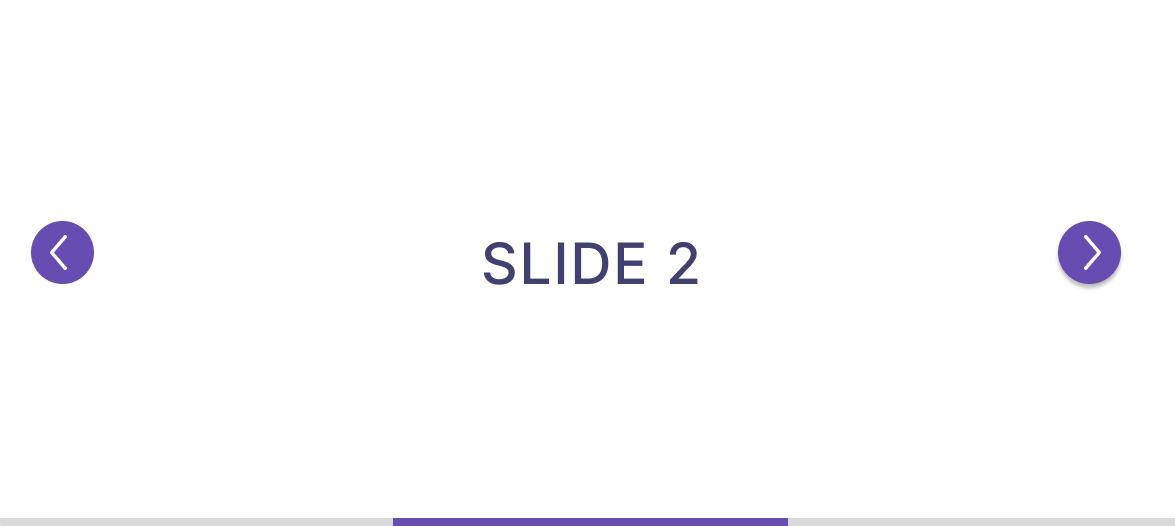
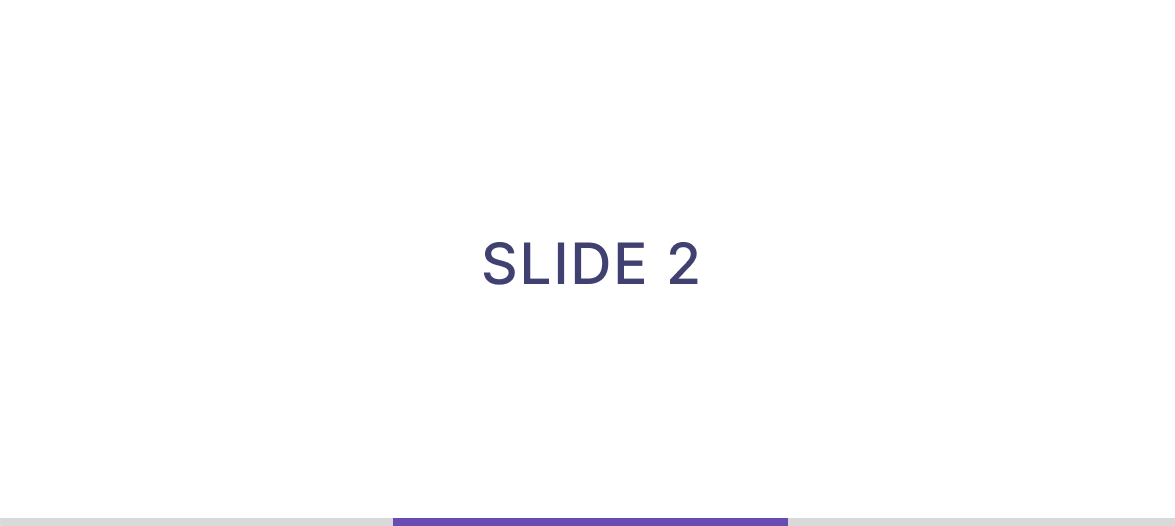
12.04.2024
almost done

Changed region(s): [[0.8885, 0.4259, 0.9804, 0.5475], [0.0, 0.3954, 0.0919, 0.5475]]

diff --git a/main.js b/main.js
@@ -37,7 +37,7 @@ class Gallary {
         ['data-btn']: 'next',
       },
     });
-    // TODO: ! навесить на кнопки события
+   
     this.items = options.gallaryItems.items.map((item) => {
       return this.createElement('img', {
         src: item,
@@ -50,8 +50,7 @@ class Gallary {
     this.gallary.appendChild(this.gallaryItems);
     this.gallaryItems.appendChild(this.wrapper);
     this.wrapper.append(...this.items);
-    this.gallary.append(this.buttonPrev, this.buttonNext);
-    // console.log(this);
+    this.gallaryItems.append(this.buttonPrev, this.buttonNext);
   }
 
   createElement(tagName, options) {
@@ -164,3 +163,124 @@ menu.addEventListener('click', function(e){
     });
   }
 });
+
+const products =[
+  {
+    name: 'https://willpower.su/image/cache/catalog/sajt08.02.2020/vitamind32000iu120caps1-1200x800.jpg', 
+    price: 2000,
+    discont: 10
+},
+{
+  name: 'https://img.herbup.ru/images/products/1/782/696623886/8.jpg', 
+  price: 2000,
+  discont: 10
+},
+{
+  name: 'https://www.fitbynet.com/wp-content/uploads/2019/06/51cY2CZlMkL._SY679_.jpg', 
+  price: 2000,
+  discont: 10
+}
+] 
+  
+const server = {
+  cards(line = 1) {
+    const finished = line >= 1
+    const next = finished ? null : line + 1
+    const cards = Array(2).fill(products)
+    return new Promise((resolve) => {
+      
+      setTimeout(() => {
+        resolve({ cards, next })
+      }, 2000)
+    })
+  },
+}
+
+ async function checkPosition() {
+  const height = document.body.offsetHeight
+  const screenHeight = window.innerHeight
+  const scrolled = window.scrollY
+  const threshold = height - screenHeight/0.9
+  const position = scrolled + screenHeight
+  if (position >= threshold) {
+    await fetchData()
+  }
+}
+
+function throttle(callee, timeout) {
+  let timer = null
+
+  return function perform(...args) {
+    if (timer) return
+
+    timer = setTimeout(() => {
+      callee(...args)
+
+      clearTimeout(timer)
+      timer = null
+    }, timeout)
+  }
+}
+
+
+;(() => {
+  window.addEventListener('scroll', throttle(checkPosition, 250))
+  window.addEventListener('resize', throttle(checkPosition, 250))
+})()
+
+let nextPage = 1;
+let isLoading = false;
+let shouldLoad = true;
+
+async function fetchData() {
+  if (isLoading || !shouldLoad) return;
+  isLoading = true;
+  const { cards, next } = await server.cards(nextPage);
+  cards.forEach(appendData);
+  nextPage = next;
+  if (!next) shouldLoad = false;
+  isLoading = false;
+
+}
+
+function appendData(loadData) {
+  if (!loadData) return
+  const main = document.querySelector('.cards')
+  const cardNode = composeData(loadData)
+  main.append(cardNode)
+}
+
+function composeData(loadData) {
+  let block;
+  let key;
+  if (!loadData) return
+  const template = document.querySelectorAll('.card__item')
+  Array.from(template).forEach((file) => {
+    file.classList.add ('active');
+    preloader.classList.add('preloader--hide')
+  })
+  
+  let list = document.querySelector('.cards');
+  console.log(loadData);
+  
+  for (key in loadData) {
+  list.innerHTML = JSON.stringify(loadData)
+        `
+          <div class="card__item">
+              <div class="card__cover">
+              <img class="card__img" src=${loadData[key].name } alt="">
+              </div>
+              <div class="card__info">
+                  <p class="card__name">${loadData[key].price}</p>
+              </div>
+              <a href="#" class="card__button">Add to cart</a>
+          </div>
+        `
+  
+  }
+  return list;
+}
+
+
+
+

diff --git a/style.css b/style.css
@@ -2,8 +2,6 @@
 
 :root {
   --width-container: 1180px;
-  /* --padding-content: 30px; */
-
   --color-purple: #674db1;
 }
 
@@ -85,25 +83,33 @@ text-decoration: none;
 }
 .gallary__item {
   /* width: 100%; */
-  height: 580px;
+  height: 560px;
   width: 1210px;
 }
 .prev {
+  position:relative;
+  top: 42%;
+  left: 3%;
   border-style: none;
   height: 60px;
   width: 63px;
   border-radius: 90px;
   text-decoration: none;
   order: 1;
+  z-index: 3;
   background-image: url(/images/prev.png);
 }
 .next {
-  border-style: none;
+ 
+  position:relative;
+  top: 42%;
+  left: 85%;;
   height: 60px;
   width: 63px;
   border-radius: 90px;
   text-decoration: none;
-  order: 2;
+  order: 1;
+  z-index: 3;
   background-image: url(/images/next.png);
 }
 
@@ -146,14 +152,24 @@ margin-top: 15px;
   flex-wrap: wrap;
 }
 
-.card__item {
+
+.card__item{
+  
+  display: none;
+  
+}
+
+.card__item.active {
+  display: flex;
   background: rgba(255, 255, 255, 0.1);
   border-radius: 20px;
   padding: 26px;
   margin: 25px 15px 10px 10px;
   border: 2px solid var(--color-purple);
   flex: calc((100% / 3) - 120px);
+  flex-direction: column;
 }
+
 .card__cover {
   position: relative;
   overflow: hidden;
@@ -288,3 +304,68 @@ padding-right: 5%;
   width: 25%;
   margin-right: 15%;
 }
+ @keyframes loading {
+  0% {transform: translate(-50%, -50%) rotate(0deg); }
+  100% { transform: translate(-50%,-50%) rotate(360deg);}
+ }
+
+.loading div {
+  position: absolute;
+  width: 120px;
+  height: 120px;
+  border: 20px solid #674db1;
+  border-top-color: transparent;
+  border-radius: 50%;
+}
+.loading div {
+  box-sizing: content-box;
+}
+  
+.loading-spinner-rolling {
+  width: 200px;
+  height: 200px;
+  display: inline-block;
+  overflow: hidden;
+  background: rgba(241, 242, 243, 0);
+}
+.loading {
+  width: 100%;
+  height: 100%;
+  position: relative;
+  transform: translateZ(0) scale(1);
+  backface-visibility: hidden;
+  transform-origin: 0 0;
+}
+.loading div {
+  animation: loading 1s linear infinite ;
+  top: 100px;
+  left: 100px;
+}
+.preloader {
+  position: relative;
+  /* position: absolute;*/
+  left: 0;
+  top: 0;
+  width: 100%;
+  height: 100%; 
+  background-color: white;
+  display: flex;
+  align-items: center;
+  justify-content: center;
+  z-index: 1000;
+  transition: all .09s ease-out;
+}
+
+.preloader--hide {
+  opacity: 0;
+  visibility: hidden;
+  z-index: -1;
+  position: absolute;
+}
+
+.preloader__loader {
+   position: relative;
+ }
+
+
+

diff --git a/index.html b/index.html
@@ -4,7 +4,7 @@
     <meta charset="UTF-8">
     <meta name="viewport" content="width=device-width, initial-scale=1.0">
     <title>Document</title>
-    <link rel="stylesheet" href="normalize.min.css">
+    <!-- <link rel="stylesheet" href="normalize.min.css"> -->
     <link rel="stylesheet" href="style.css">
     <script src="main.js" defer></script>
 </head>
@@ -51,6 +51,16 @@
         <div class="container">
             <div class="product__wrapper">
                 <h2 class="title" id="Products">Products</h2>
+                <div id="preloader" class="preloader">
+                    <div class="preloader__loader">
+                        <div class="loading-spinner-rolling">
+                            <div class="loading">
+                                <div></div>
+                            </div>
+                        </div>
+                    </div>
+                </div>
+                
                 <div class="cards">
                     <div class="card__item">
                         <div class="card__cover">
